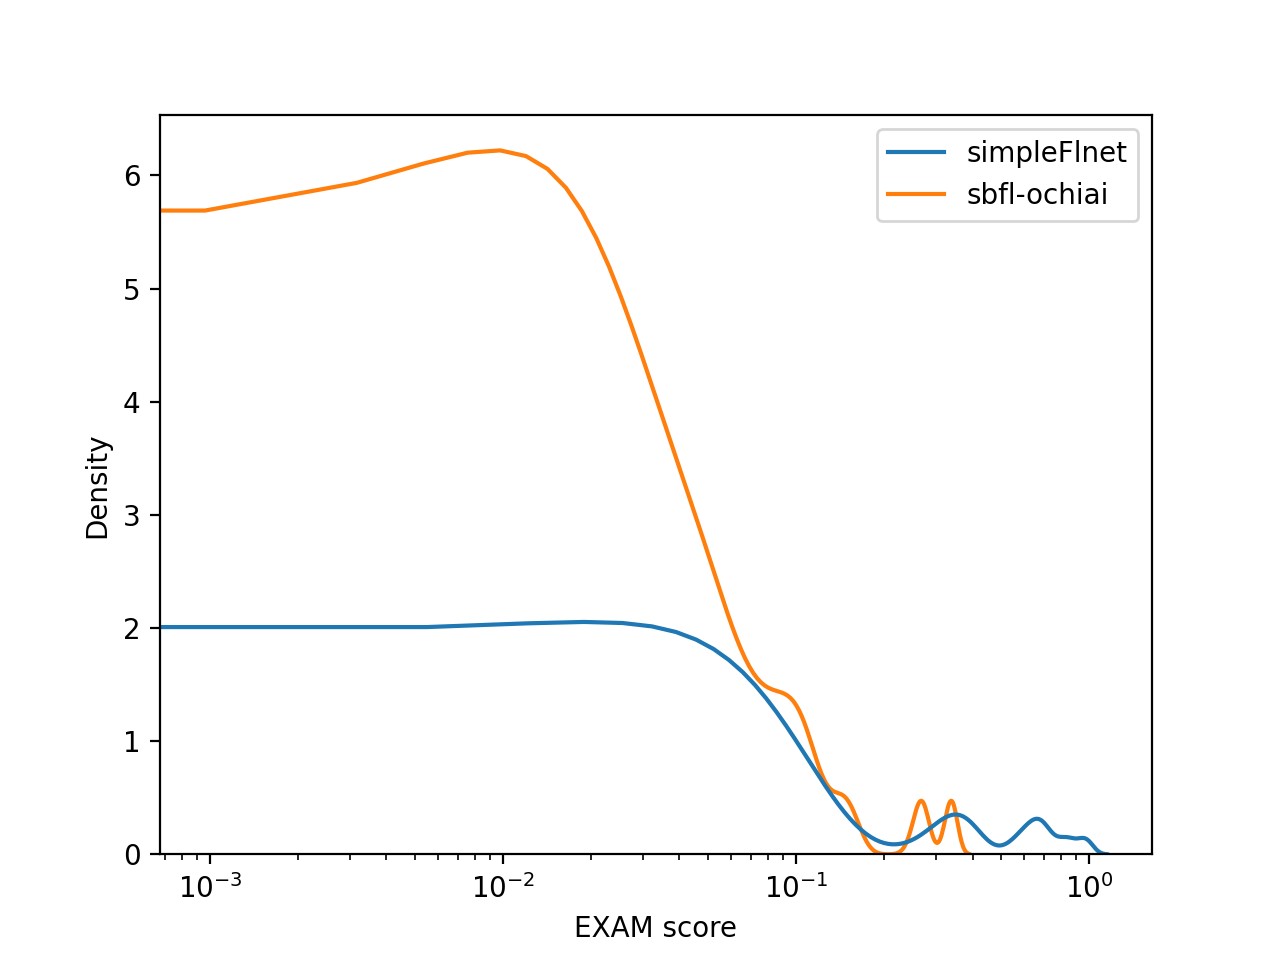
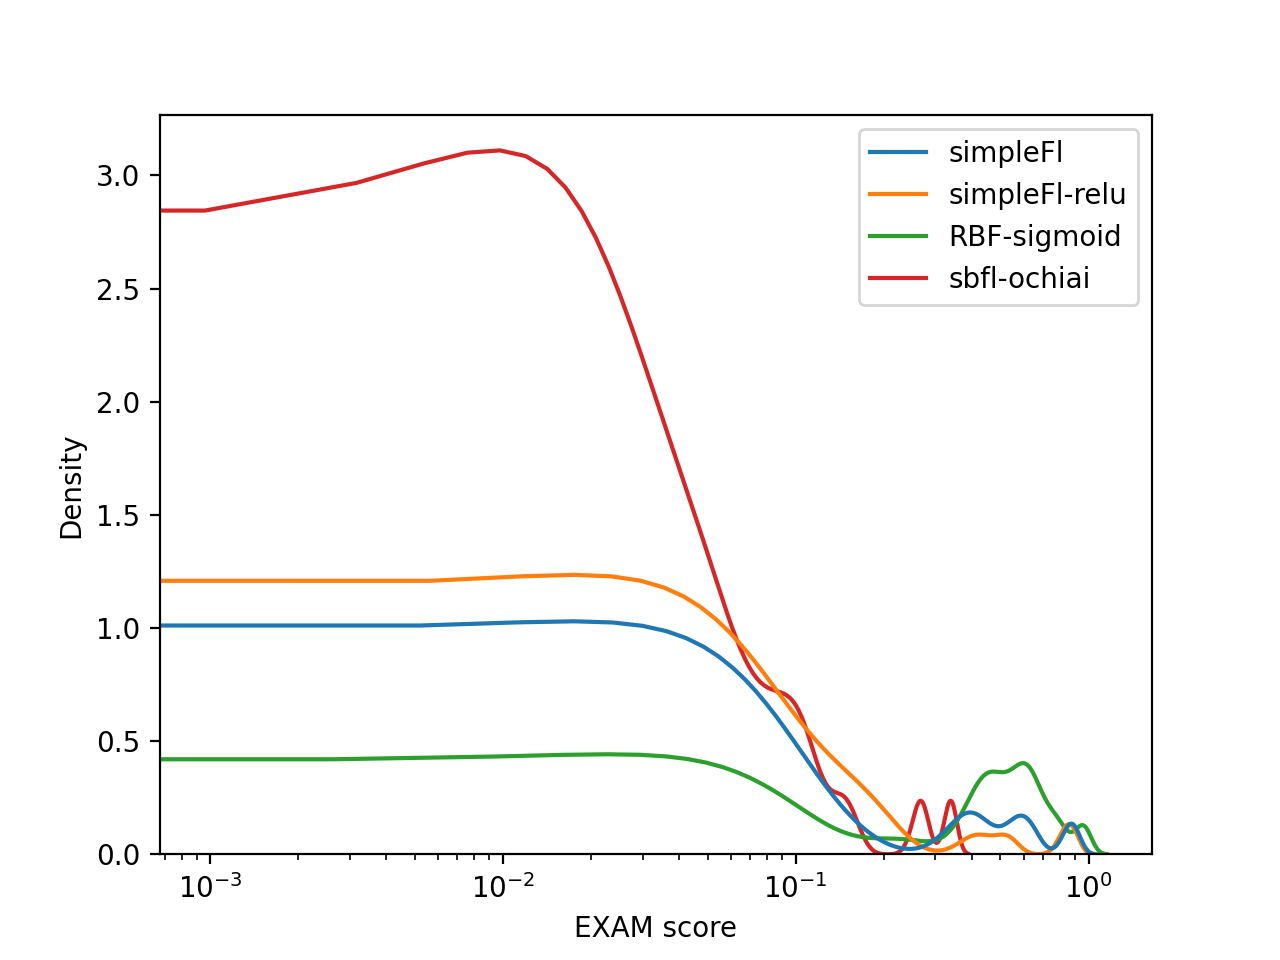
update EXAMplot
standarized color, add a few models

diff --git a/EXAMplot.py b/EXAMplot.py
@@ -10,6 +10,8 @@ from collections import defaultdict
 import torch
 from torch.utils.data import TensorDataset, DataLoader
 import src.models as models
+from src.classifiers.rbf import RBF
+from src.classifiers.rbf import sigmoid
 import src.train_util as trn
 
 
@@ -32,7 +34,7 @@ if __name__=="__main__":
                 num_program_statements = X.shape[1]
                 fix_statements = fixed.get_fixes(pid, bid)
 
-                # NNFL
+                # NNFL - SimpleFL
                 virtual_tests = np.identity(X.shape[1], dtype=np.single)
                 m = models.SimpleFLNet(X.shape[1], 100)
 
@@ -54,7 +56,41 @@ if __name__=="__main__":
 
                 if (len(ranks) > 0):  # TODO this should always be true but some bug is making it false sometimes
                     curr_EXAM = min(ranks) / num_program_statements
-                    EXAM_scores['simpleFlnet'].append(curr_EXAM)
+                    EXAM_scores['simpleFl'].append(curr_EXAM)
+
+                # NNFL - SimpleFL-relu
+                m = models.SimpleFLReluNet(X.shape[1], 100)
+                trn.train_fl(m, 1000, data_loader)
+                nn_scores = m.forward(torch.tensor(virtual_tests)).detach().numpy().T
+                all_ranks = rankdata(-nn_scores, method='average')
+
+                fix_indexes = []
+                for fix_point in fix_statements:
+                    idx, = np.where(np.array(d_lab) == fix_point)
+                    for elem in idx:
+                        fix_indexes.append(elem)
+                ranks = np.take(all_ranks, fix_indexes)
+
+                if (len(ranks) > 0):  # TODO this should always be true but some bug is making it false sometimes
+                    curr_EXAM = min(ranks) / num_program_statements
+                    EXAM_scores['simpleFl-relu'].append(curr_EXAM)
+
+                # NNFL - RBF-sigmoid
+                m = RBF(X.shape[1], 1, sigmoid)
+                trn.train_fl(m, 1000, data_loader)
+                nn_scores = m.forward(torch.tensor(virtual_tests)).detach().numpy().T
+                all_ranks = rankdata(-nn_scores, method='average')
+
+                fix_indexes = []
+                for fix_point in fix_statements:
+                    idx, = np.where(np.array(d_lab) == fix_point)
+                    for elem in idx:
+                        fix_indexes.append(elem)
+                ranks = np.take(all_ranks, fix_indexes)
+
+                if (len(ranks) > 0):  # TODO this should always be true but some bug is making it false sometimes
+                    curr_EXAM = min(ranks) / num_program_statements
+                    EXAM_scores['RBF-sigmoid'].append(curr_EXAM)
 
                 # SBFL
                 X = np.array(X, dtype=bool)

diff --git a/makePlots.py b/makePlots.py
@@ -1,3 +1,4 @@
+import matplotlib.colors
 import pandas as pd
 import numpy as np
 
@@ -14,27 +15,36 @@ def bests_to_counts(bests):
     counts = defaultdict(lambda : 0)
     for elem in bests:
         counts[elem] += 1
-    return counts.keys(), counts.values()
+    return counts
 
 
 if __name__=="__main__":
     df = pd.read_pickle("./EXAM.pkl")
+    colors = list(matplotlib.colors.TABLEAU_COLORS)[:len(df.columns) - 2]
+    print(colors)
 
     # Density EXAM
-    sns.kdeplot(data=df, bw_method=.2)
+    sns.kdeplot(data=df, bw_method=.2, palette=colors)
     plt.xlabel("EXAM score")
     plt.xscale('log')
     plt.show()
 
 
     # PIE - for all the bugs, which technique performed the best with the lowest exam score
-    df = df[df.columns[::-1]] # reverse df columns, ties should go to the simplier technique.. SBFL before NN etc
-    pids = df.pop('pid')
-    bids = df.pop('bid')
-    bests = df.apply(lambda x: return_col_name(x, df.columns), axis=1)
-    labels, counts = bests_to_counts(bests)
+    df_rev = df[df.columns[::-1]] # reverse df columns, ties should go to the simplier technique.. SBFL before NN etc
+    pids = df_rev.pop('pid')
+    bids = df_rev.pop('bid')
+    bests = df_rev.apply(lambda x: return_col_name(x, df_rev.columns), axis=1)
+    counts_dict = bests_to_counts(bests)
+    labels = []
+    counts = []
+    for c in df.columns:
+        if c != 'pid' and c != 'bid':
+            labels.append(c)
+            counts.append(counts_dict[c])
+
     print(labels, counts)
-    plt.pie(counts, labels=labels, autopct='%1.1f%%', pctdistance=0.85)
+    plt.pie(counts, labels=labels, autopct='%1.1f%%', pctdistance=0.85, colors=colors)
     centre_circle = plt.Circle((0, 0), 0.70, fc='white')
     fig = plt.gcf()
     fig.gca().add_artist(centre_circle)

diff --git a/src/models.py b/src/models.py
@@ -18,7 +18,7 @@ class SimpleFLNet(nn.Module):
 
 class SimpleFLReluNet(nn.Module):
 	def __init__(self, input_size, hidden_size):
-		super()
+		super(SimpleFLReluNet, self).__init__()
 		self.fc1 = nn.Linear(input_size, hidden_size)
 		self.fc2 = nn.Linear(hidden_size, 1)
 
